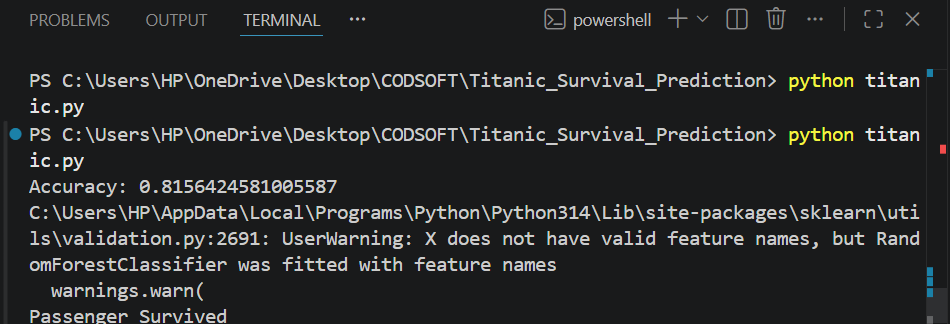
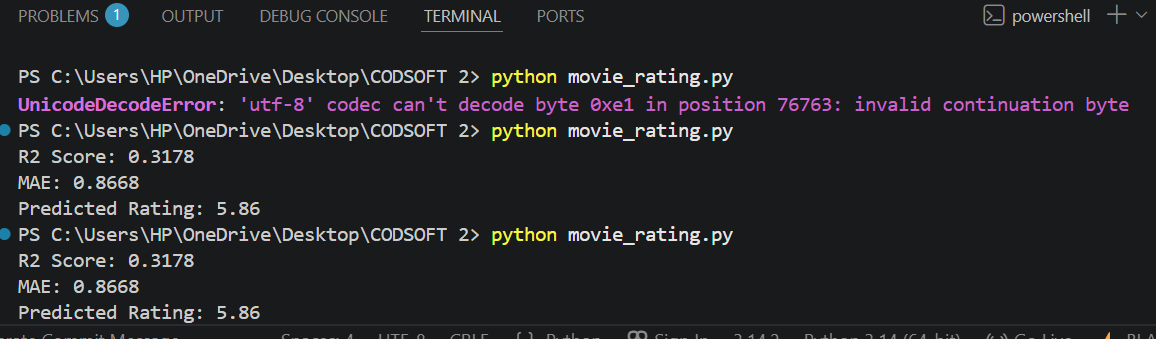
Movie Rating Prediction
Added Task 2 - IMDb Movie Rating Analysis project with source code and dataset.

diff --git a/movie_rating.py b/movie_rating.py
@@ -1,0 +1,99 @@
+import pandas as pd
+from sklearn.model_selection import train_test_split
+from sklearn.compose import ColumnTransformer
+from sklearn.pipeline import Pipeline
+from sklearn.impute import SimpleImputer
+from sklearn.preprocessing import OneHotEncoder
+from sklearn.ensemble import GradientBoostingRegressor
+from sklearn.metrics import mean_absolute_error, r2_score
+
+# Load dataset
+df = pd.read_csv("IMDb Movies India.csv",encoding="latin1")
+
+# Remove missing ratings
+df = df.dropna(subset=["Rating"])
+
+# Clean Year column
+df["Year"] = df["Year"].astype(str).str.extract(r'(\d{4})')
+df["Year"] = pd.to_numeric(df["Year"], errors="coerce")
+
+# Clean Duration column
+df["Duration"] = df["Duration"].astype(str).str.extract(r'(\d+)')
+df["Duration"] = pd.to_numeric(df["Duration"], errors="coerce")
+
+# Clean Votes column
+df["Votes"] = df["Votes"].astype(str).str.replace(",", "", regex=False)
+df["Votes"] = pd.to_numeric(df["Votes"], errors="coerce")
+
+features = [
+    "Genre",
+    "Director",
+    "Actor 1",
+    "Actor 2",
+    "Actor 3",
+    "Year",
+    "Duration",
+    "Votes"
+]
+
+X = df[features]
+y = df["Rating"]
+
+categorical = ["Genre", "Director", "Actor 1", "Actor 2", "Actor 3"]
+numerical = ["Year", "Duration", "Votes"]
+
+preprocessor = ColumnTransformer([
+    (
+        "cat",
+        Pipeline([
+            ("imputer", SimpleImputer(strategy="most_frequent")),
+            ("encoder", OneHotEncoder(handle_unknown="ignore"))
+        ]),
+        categorical
+    ),
+    (
+        "num",
+        Pipeline([
+            ("imputer", SimpleImputer(strategy="median"))
+        ]),
+        numerical
+    )
+])
+
+model = Pipeline([
+    ("preprocessor", preprocessor),
+    ("regressor", GradientBoostingRegressor(
+        n_estimators=150,
+        learning_rate=0.05,
+        random_state=42
+    ))
+])
+
+X_train, X_test, y_train, y_test = train_test_split(
+    X, y,
+    test_size=0.2,
+    random_state=42
+)
+
+model.fit(X_train, y_train)
+
+predictions = model.predict(X_test)
+
+print("R2 Score:", round(r2_score(y_test, predictions), 4))
+print("MAE:", round(mean_absolute_error(y_test, predictions), 4))
+
+# Example Prediction
+sample = pd.DataFrame({
+    "Genre": ["Drama"],
+    "Director": ["Shoojit Sircar"],
+    "Actor 1": ["Jimmy Sheirgill"],
+    "Actor 2": ["Minissha Lamba"],
+    "Actor 3": ["Yashpal Sharma"],
+    "Year": [2005],
+    "Duration": [142],
+    "Votes": [1086]
+})
+
+rating = model.predict(sample)
+
+print("Predicted Rating:", round(rating[0], 2))
